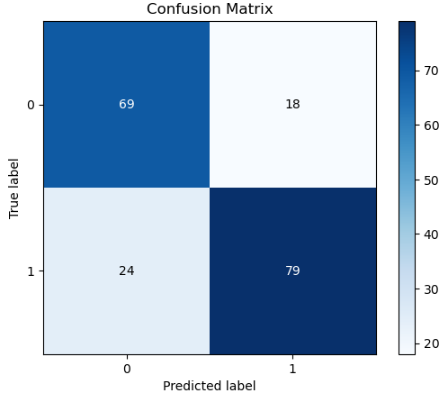
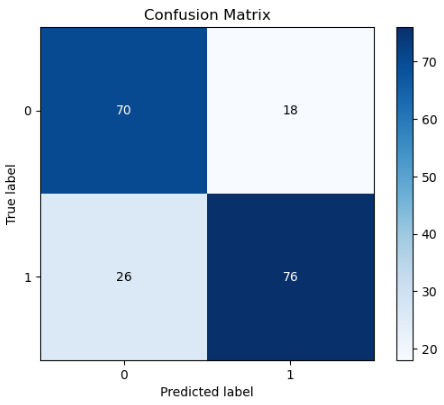
Updated images and added f1 scores

diff --git a/README.md b/README.md
@@ -83,21 +83,19 @@ RandomForest - param_grid = {"preprocessing__cat_transform__pca__n_components": 
 ![Pipeline image](https://github.com/naqueattack/DeploymentProject/blob/master/images/Pipeline.PNG?raw=true)
 
 ## Results/Demo
-Both models were similar in accuracy, though XGBoost did outperform RandomForest. In the end for production I used randomforest as I was unable to succesfully load XGBoost model in the cloud. This is a future endeavor as the accuracy difference is about 2%.
+Both models were similar in accuracy, though XGBoost did outperform RandomForest. In the end for production I used randomforest as it had higher predictive power in terms of accuracy and F1 statistics.
 
 Confusion Matrix RandomForest:
 
-![Confusion Matrix](https://github.com/naqueattack/DeploymentProject/blob/master/images/Confusion.PNG?raw=true)
+![Confusion Matrix](https://github.com/naqueattack/DeploymentProject/blob/master/images/Confusion2.PNG?raw=true)
 
 Random Forest:
-Accuracy: 78%
-Precision: 77%
-Recall: 81%
+Accuracy: 79%
+F1: 81%
 
 XGBoost:
-Accuracy: 80%
-Precision: 77%
-Recall: 85%
+Accuracy: 78%
+F1: 78%
 
 
 The model does about equally well on both classes thanks to oversampling, but unfortunately a bit worse on class 0 (loan denied) which is probably the class we'd want to make sure to get.
@@ -107,9 +105,9 @@ There is a problem with the above models if we look at them outside of an academ
 
 Confusion Matrix RandomForest Non-Discriminatory:
 
-![Confusion Matrix](https://github.com/naqueattack/DeploymentProject/blob/master/images/Confusion2.PNG?raw=true)
+![Confusion Matrix](https://github.com/naqueattack/DeploymentProject/blob/master/images/Confusion.PNG?raw=true)
 
-This model only performed slightly worse than the above with an accuracy of 77%. This model heavily relied on quantitative measures for its prediction with education, self-employment, living area, and # of dependents only making up about 25% of variable importance.
+This model only performed slightly worse than the above with an accuracy of 77% and F1 of 78%. This model heavily relied on quantitative measures for its prediction with education, self-employment, living area, and # of dependents only making up about 25% of variable importance.
 
 Loan amount, credit history and income made up the bulk (see notebook for full details)
 
